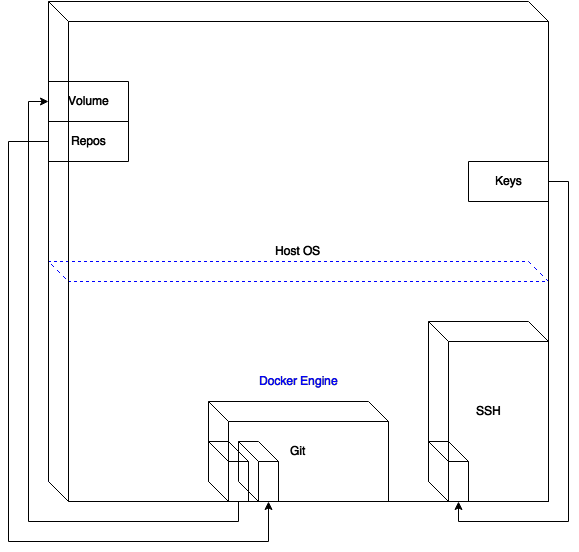
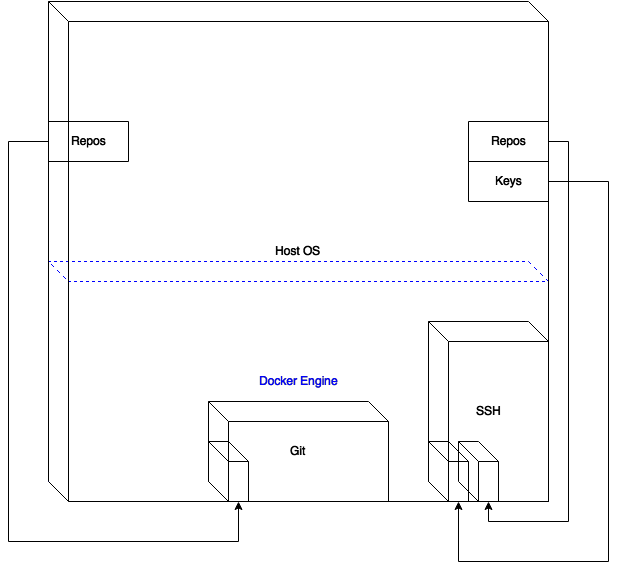
Update diagram

diff --git a/README.md b/README.md
@@ -1,4 +1,5 @@
-# Git Service – Docker Project
+# Git Service Under Various Protocols
+This project serves as a demonstration of a containerization using Docker technology.
 
 ![Alt text](Resources/git.png)
 
